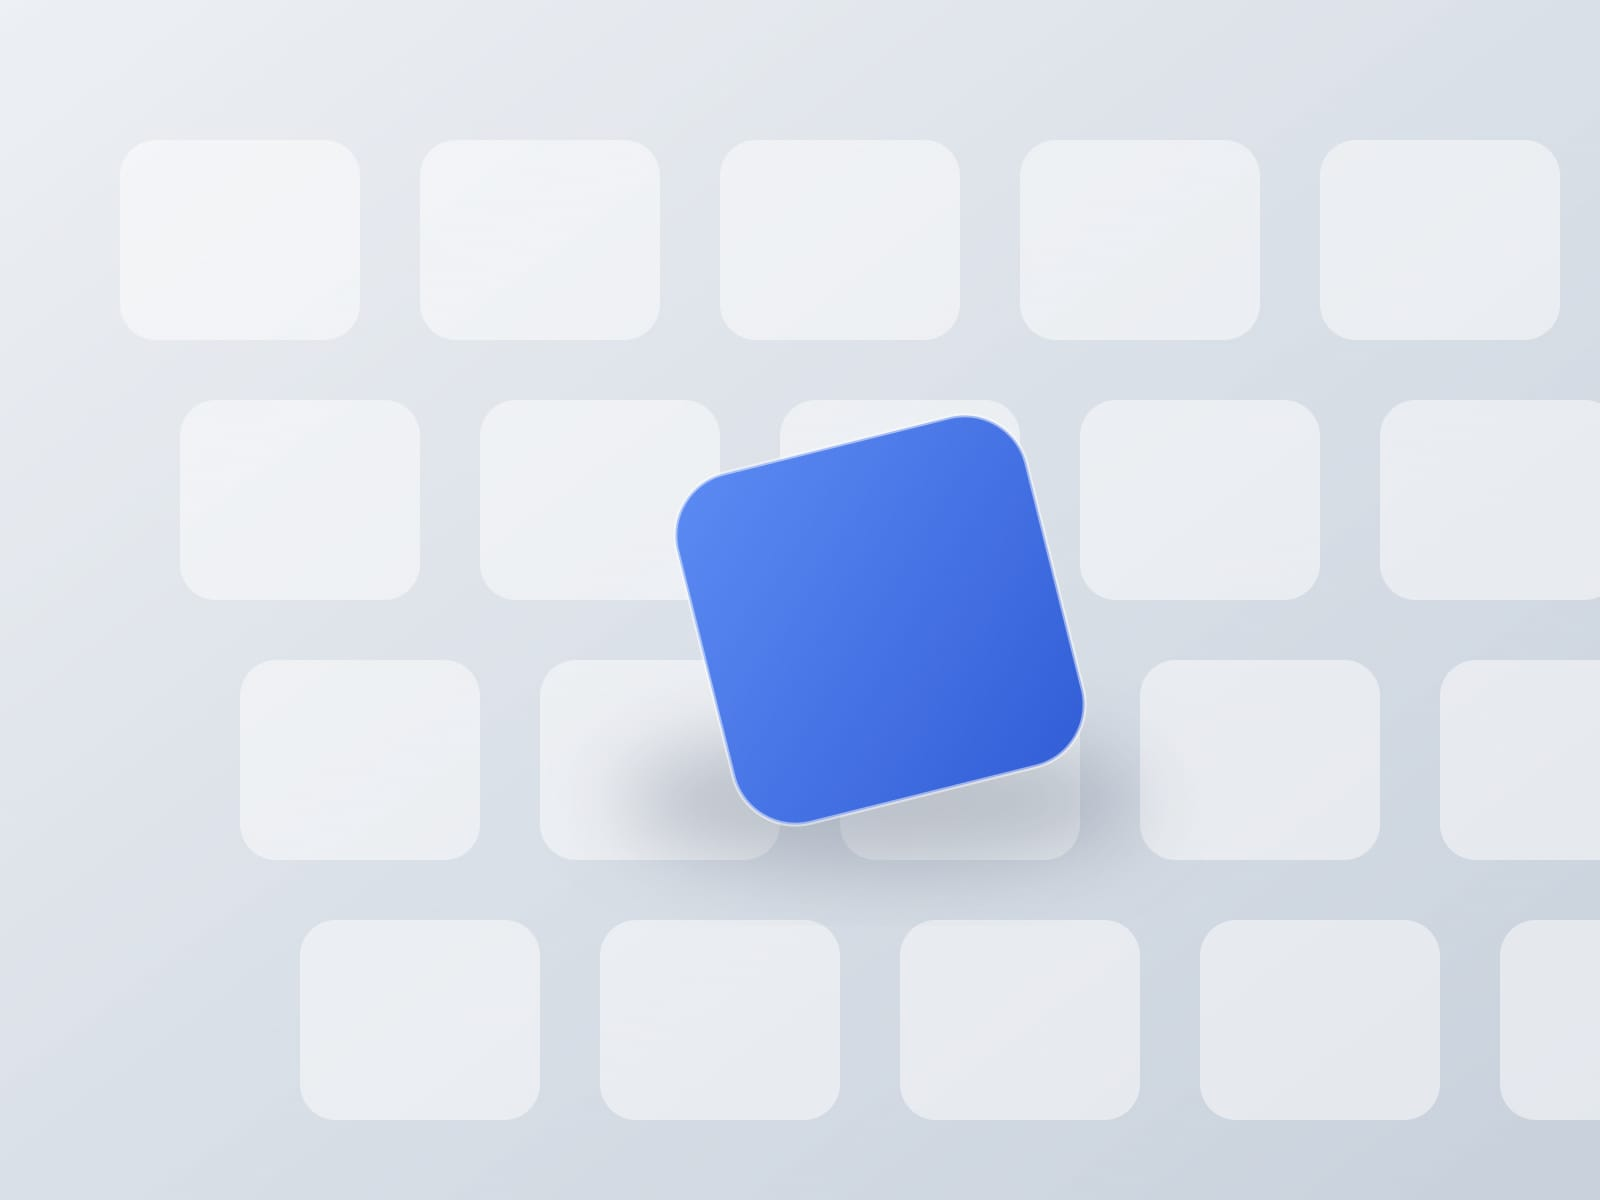
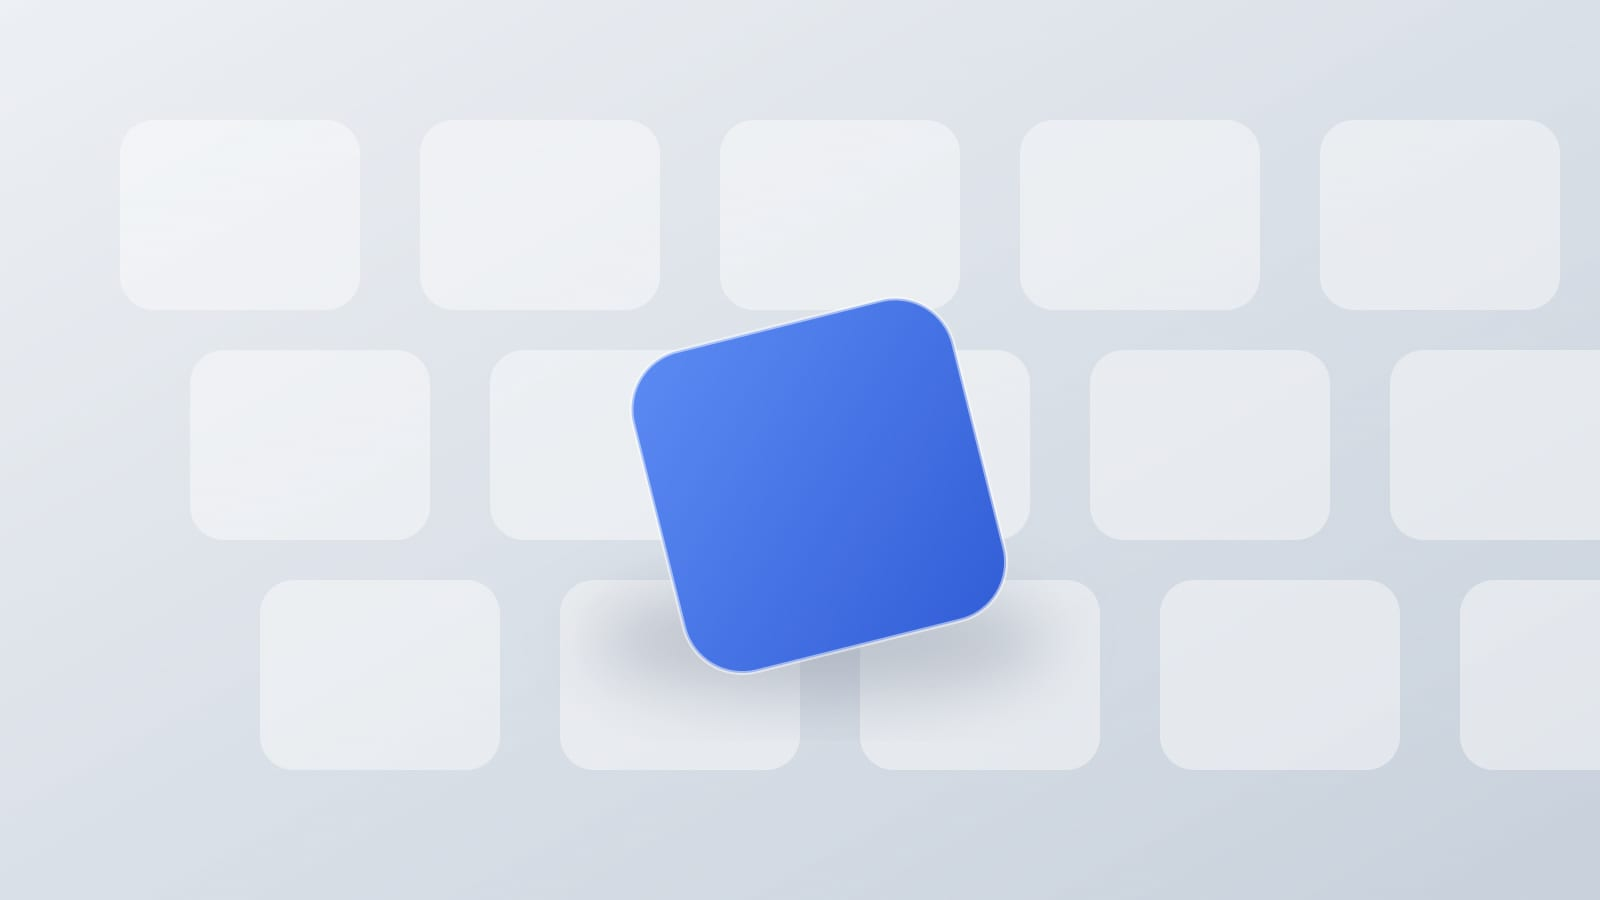
Show project covers at 16:9 with minimal cropping
Project cards were 16:10 with a strong parallax zoom, which cropped a
1600x900 (16:9) cover on all sides. Switch the card window to 16:9,
remove the CSS overflow zoom, and cut the parallax to a small baseline
scale (1.06) + gentle drift so a 16:9 image shows with only ~3% trim.
Regenerate the four demo covers at 1600x900 to match.

Claude-Session: https://claude.ai/code/session_016hJQZ5WGiDxWhmhT2awr7Z

diff --git a/src/scripts/app.js b/src/scripts/app.js
@@ -263,23 +263,25 @@ function initCards(signal) {
 
     if (!img) return;
 
+    // reveal zoom settles at a small baseline (1.06) that gives the drift
+    // just enough headroom — so a 16:9 cover is only cropped ~3% at rest
     gsap.fromTo(
       img,
-      { scale: 1.22 },
+      { scale: 1.2 },
       {
-        scale: 1,
+        scale: 1.06,
         duration: 1.5,
         ease: 'power3.out',
         scrollTrigger: { trigger: card, start: 'top 90%', once: true },
       }
     );
 
-    // parallax drift while the card passes through the viewport
+    // gentle parallax drift while the card passes through the viewport
     gsap.fromTo(
       img,
-      { yPercent: -5.5 },
+      { yPercent: -2.2 },
       {
-        yPercent: 5.5,
+        yPercent: 2.2,
         ease: 'none',
         scrollTrigger: { trigger: wrap, start: 'top bottom', end: 'bottom top', scrub: true },
       }
@@ -288,12 +290,12 @@ function initCards(signal) {
     if (finePointer) {
       card.addEventListener(
         'mouseenter',
-        () => gsap.to(img, { scale: 1.07, duration: 0.7, ease: 'power3.out' }),
+        () => gsap.to(img, { scale: 1.11, duration: 0.7, ease: 'power3.out' }),
         { signal }
       );
       card.addEventListener(
         'mouseleave',
-        () => gsap.to(img, { scale: 1, duration: 0.7, ease: 'power3.out' }),
+        () => gsap.to(img, { scale: 1.06, duration: 0.7, ease: 'power3.out' }),
         { signal }
       );
     }

diff --git a/src/styles/global.css b/src/styles/global.css
@@ -374,12 +374,13 @@ html:not(.js) .scroll-ctl {
 }
 .card-img img {
   position: absolute;
-  left: 0;
-  top: -7%;
+  inset: 0;
   width: 100%;
-  height: 114%;
+  height: 100%;
   object-fit: cover;
   will-change: transform;
+  /* a 16:9 cover sits flush; the tiny baseline zoom + drift come from GSAP
+     (see initCards in app.js) and only crop ~2–3% so nothing important is cut */
 }
 
 /* ----- marquee ----- */

diff --git a/README.md b/README.md
@@ -80,7 +80,9 @@ Only write text for the really important stuff — the images do the talking.
 ![Another image](./02.jpg)
 ```
 
-That's the whole system: **images with a few short sentences in between.** Every image you reference gets optimized automatically (WebP, responsive sizes). Wide images look best (≈1600px wide, covers in 16:10).
+That's the whole system: **images with a few short sentences in between.** Every image you reference gets optimized automatically (WebP, responsive sizes).
+
+**Cover images:** use a **16:9** ratio — **1600 × 900 px** is ideal (a YouTube-thumbnail export drops straight in). The card preview shows the whole cover with only a tiny (~3%) trim at the edges, so keep important text a little away from the very border. Inside-the-page images (the `![](...)` ones) can be any size — they show at full width, uncropped.
 
 The four demo projects (Conjure, TrialMatch, Epoch, Bionova) are placeholders — replace them with your real work.
 